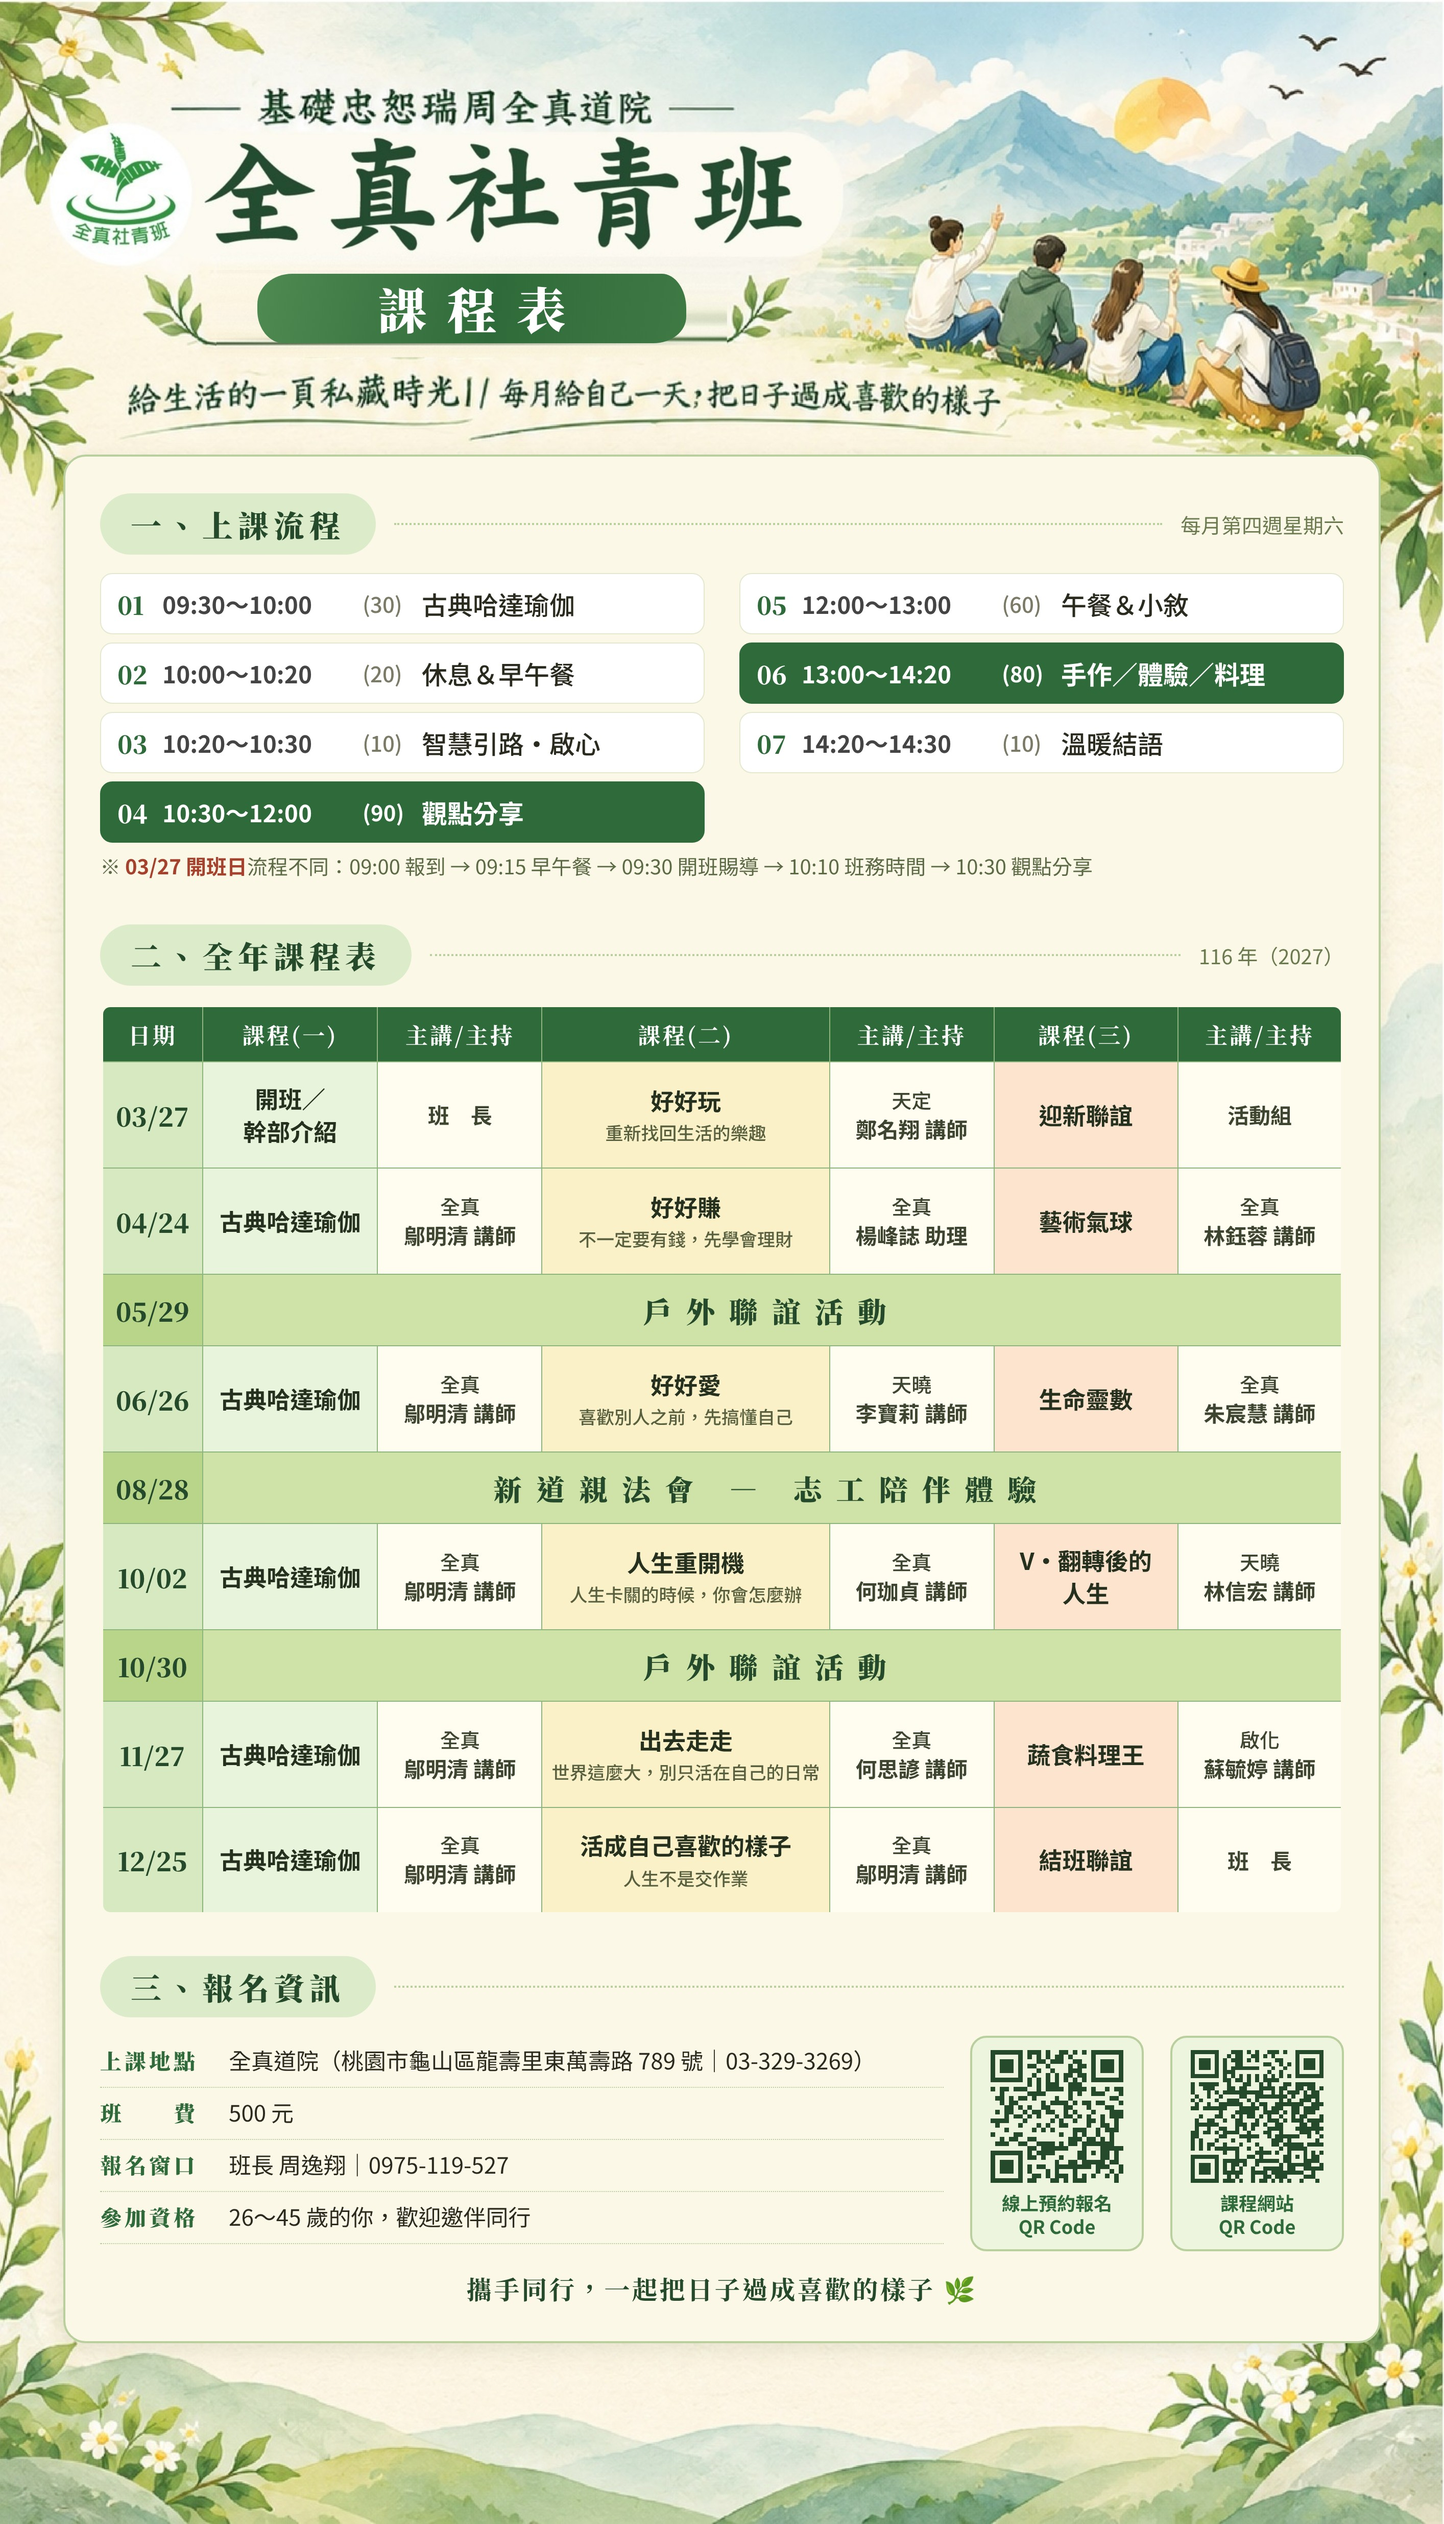
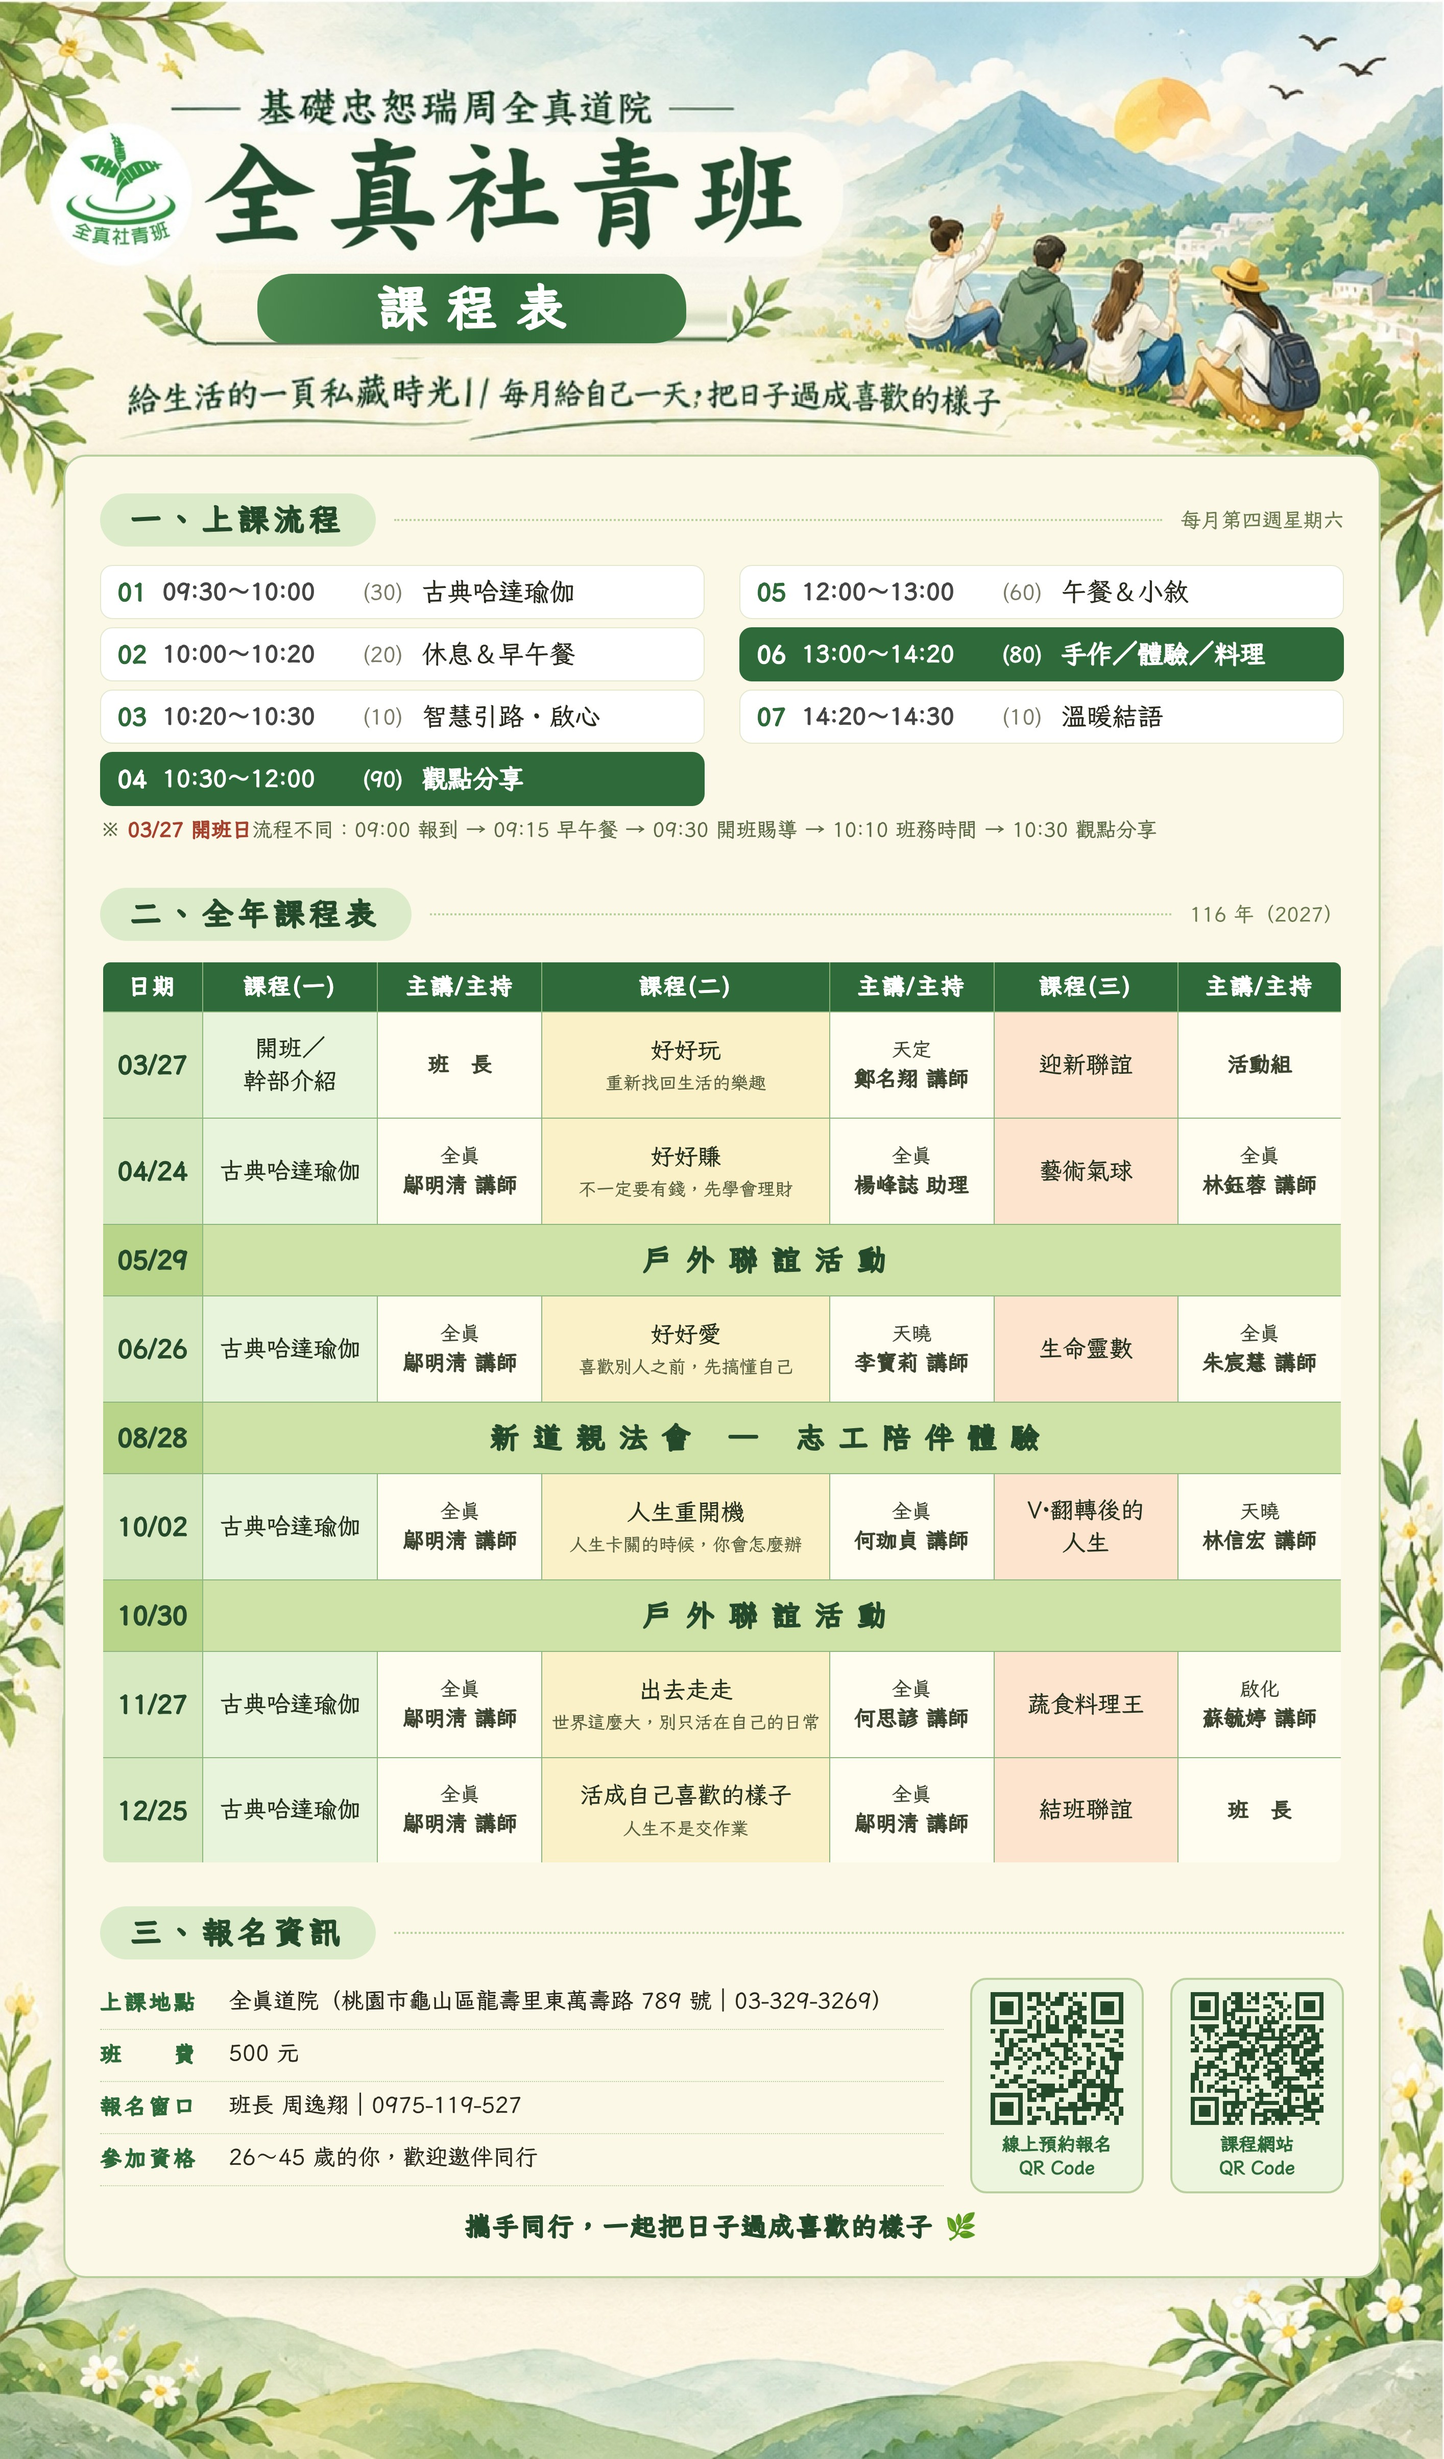
課程分享卡：字體改為霞鶩文楷（文青風），標題殘線已清除
Claude-Session: https://claude.ai/code/session_01CYjxt9SHknbooV7BG34GCT

diff --git a/card/index.html b/card/index.html
@@ -8,7 +8,7 @@
 <meta property="og:type" content="website">
 <meta property="og:title" content="116 年（2027）全真社青班｜上課流程＋課程表">
 <meta property="og:description" content="每月給自己一天，攜手把日子過成喜歡的樣子。">
-<meta property="og:image" content="https://steven4dev.github.io/yiguandao-2027-course/card/course-card.jpg?v=1">
+<meta property="og:image" content="https://steven4dev.github.io/yiguandao-2027-course/card/course-card.jpg?v=2">
 <style>
   :root{--bg:#f4f1e4;--fg:#2b3a26;--muted:#66745a}
   @media (prefers-color-scheme: dark){:root{--bg:#1d241b;--fg:#e6ecd9;--muted:#a3b293}}
@@ -24,7 +24,7 @@
 <main>
   <h1>116 年（2027）全真社青班 上課流程＋課程表</h1>
   <p>手機：長按圖片 → 儲存圖片或分享給朋友。電腦：在圖片上按右鍵另存。</p>
-  <img src="course-card.jpg?v=1" alt="116 年全真社青班上課流程與課程表分享卡">
+  <img src="course-card.jpg?v=2" alt="116 年全真社青班上課流程與課程表分享卡">
 </main>
 </body>
 </html>
